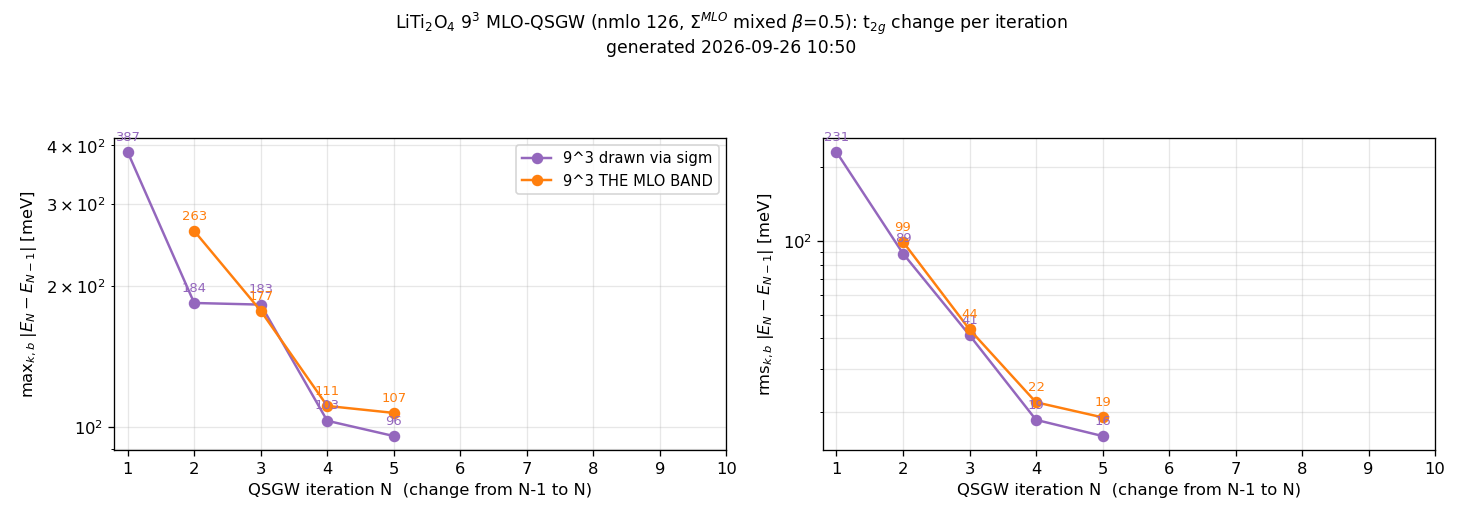
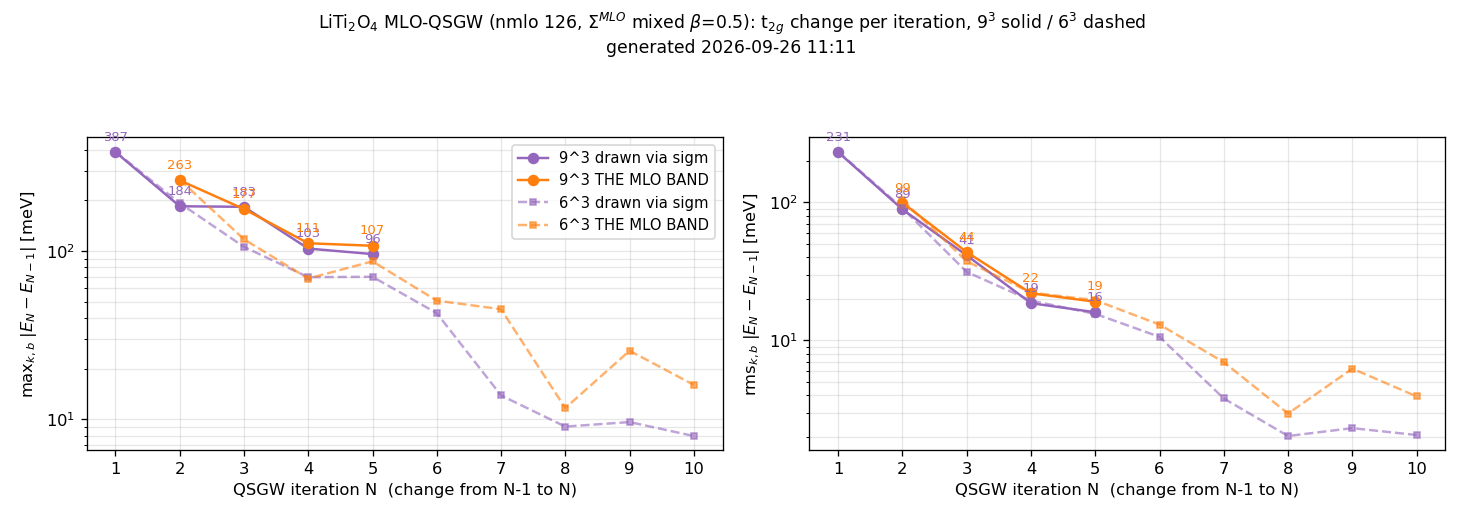
kBT_research: put 6^3 beside 9^3 in the living band and convergence figures
L-1 now has four columns (6^3 via sigm, 6^3 MLO band, 9^3 via sigm, 9^3 MLO band),
L-2 draws the 6^3 curves dashed under the 9^3 ones.  Up to iteration 5 the two meshes
fall at the same rate in rms.

diff --git a/Samples/kBT/kBT_research.md b/Samples/kBT/kBT_research.md
@@ -15,24 +15,26 @@
 
 ## 最新の図（走行中のチェーンを映す。ここだけ上書きされる）
 
-**最終更新 2026-09-26 11:15**（9³ iter 5）／ 追っているのは **`liti_mlo_k9`**（**9³**、nmlo 126、$\Sigma^{\rm MLO}$ を β=0.5 で混合、10 反復投入、03:07 開始）。
+**最終更新 2026-09-26 11:20**（9³ iter 5）／ 追っているのは **`liti_mlo_k9`**（**9³**、nmlo 126、$\Sigma^{\rm MLO}$ を β=0.5 で混合、10 反復投入、03:07 開始）。
 6³ の v9 は 10 反復で完了し、最終図は 03:15 のエントリに凍結した。
 
 | 列 | 何を描いたか | 描き方 |
 |---|---|---|
-| 左 | `liti_mlo_k9` | 従来 `sigm` の内挿（`job_band`、`mloON=0`）。SCF が使った $\Sigma^{\rm MLO}$ ではない |
-| 右 | **`liti_mlo_k9` の MLO バンド** | SCF が解いた $H$ の MLO 模型（`draw_mloband.sh`）|
+| 1 | 6³ の `liti_mlo_v9`（10 反復で完了）| 従来 `sigm` の内挿（`job_band`、`mloON=0`）|
+| 2 | 6³ の `liti_mlo_v9` の **MLO バンド** | SCF が解いた $H$ の MLO 模型（`draw_mloband.sh`）|
+| 3 | **9³ の `liti_mlo_k9`**（走行中）| 従来 `sigm` の内挿。SCF が使った $\Sigma^{\rm MLO}$ ではない |
+| 4 | **9³ の `liti_mlo_k9` の MLO バンド** | SCF が解いた $H$ の MLO 模型 |
 
 9³ には反復を揃えて比べられる従来チェーンが無いので、従来列は置いていない。
-点線は Γ→X 上の Σ メッシュ点 $x = 2n/9$（0, 2/9, 4/9, 6/9, 8/9。X 点は奇数メッシュに乗らない）。
+点線は列ごとの Γ→X 上の Σ メッシュ点 $x = 2n/N$（6³: 0, 1/3, 2/3, 1、9³: 0, 2/9, 4/9, 6/9, 8/9。X 点は奇数メッシュに乗らない）。
 
 *図 L-1* t2g（b33–44）、Γ→X 211 点
 
 [![mlo_rows_k9](LiTi2O4/mlo_rows_k9.png)](LiTi2O4/mlo_rows_k9.png)
 
-`Samples/kBT/LiTi2O4/mlo_rows_k9.png`（生成: `MESH=9 mlo_rows.py <root> <out> k9,k9mlo 'ラベル,ラベル' 'tab:purple,tab:orange' noref`）
+`Samples/kBT/LiTi2O4/mlo_rows_k9.png`（生成: `MESH=6,9 MESHCOLS=6,6,9,9 mlo_rows.py <root> <out> v9,v9mlo,k9,k9mlo '…' '…' noref`）
 
-*図 L-2* 反復ごとの変化（左 max、右 rms）
+*図 L-2* 反復ごとの変化（左 max、右 rms）。**9³ は実線、6³ は破線**
 
 [![mlo_conv_k9](LiTi2O4/mlo_conv_k9.png)](LiTi2O4/mlo_conv_k9.png)
 
